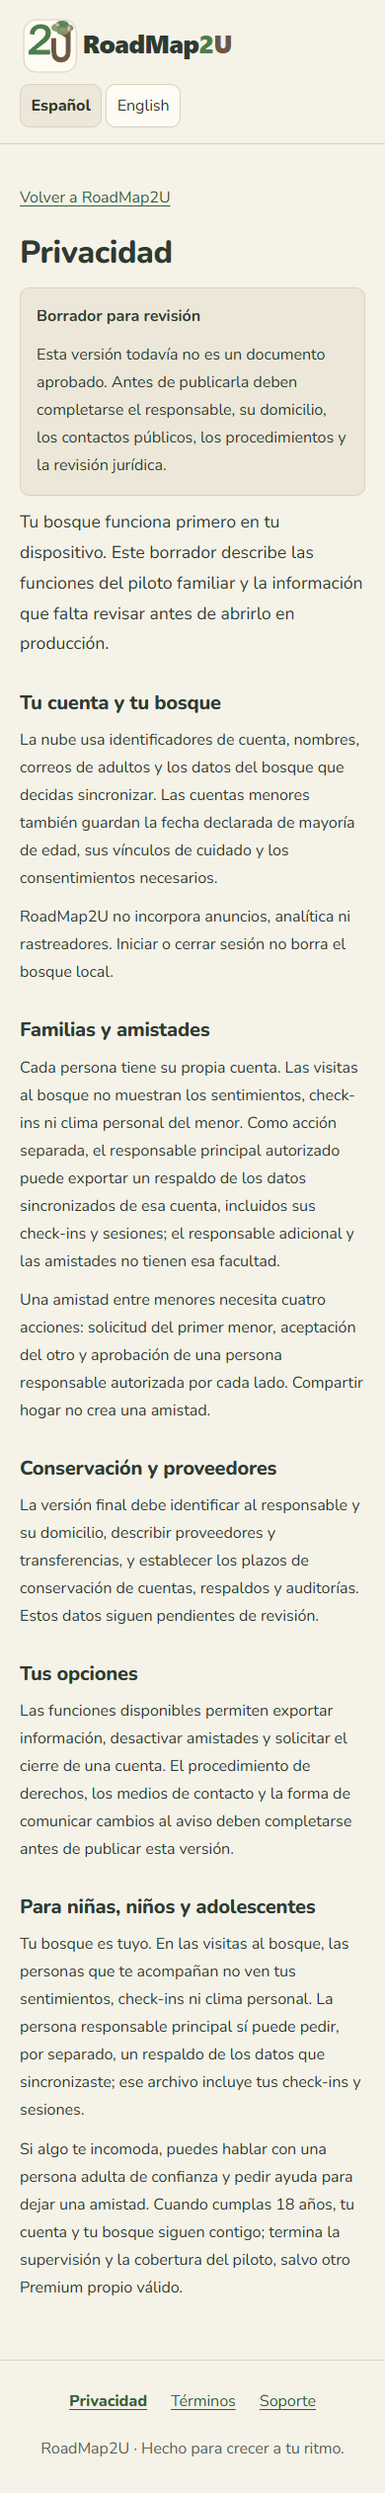
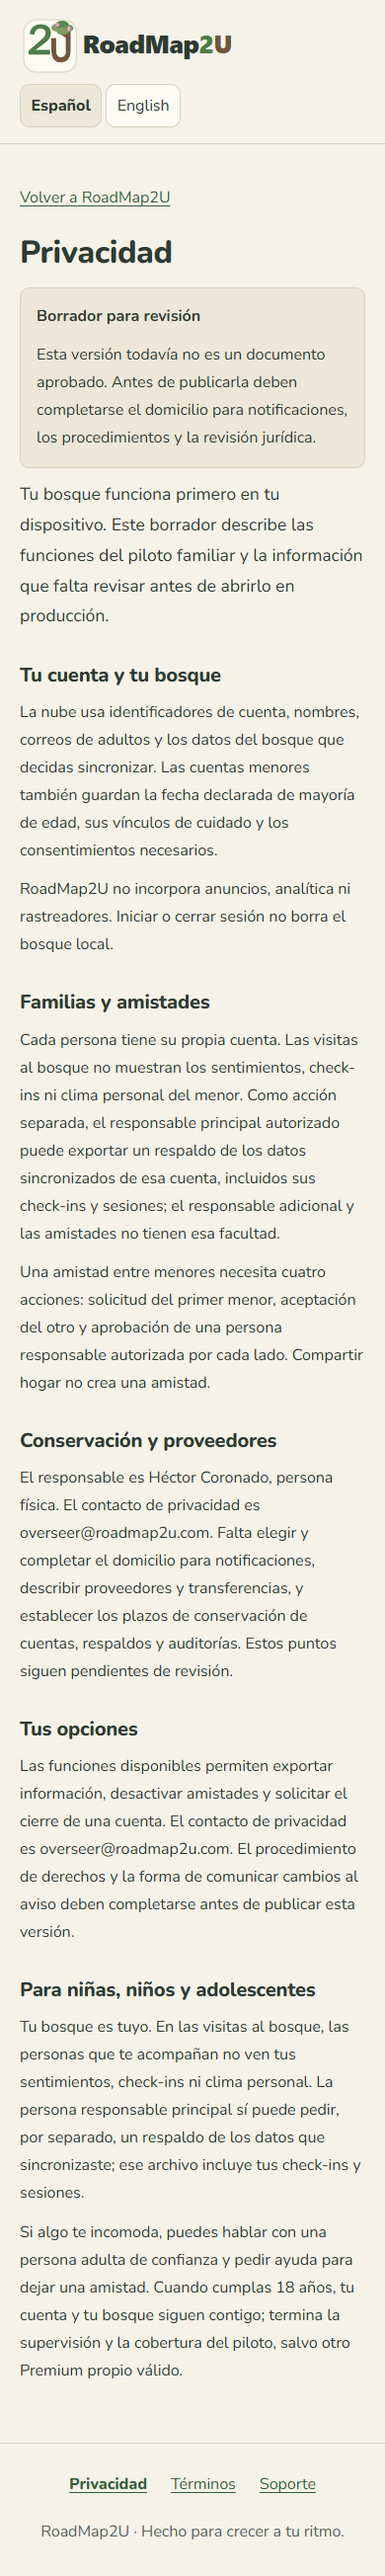
docs(privacy): add confirmed contacts and support review procedure

diff --git a/src/app/core/i18n/es.ts b/src/app/core/i18n/es.ts
@@ -154,7 +154,7 @@ export const ES = {
     navigation: 'Documentos y ayuda',
     review: {
       title: 'Borrador para revisión',
-      body: 'Esta versión todavía no es un documento aprobado. Antes de publicarla deben completarse el responsable, su domicilio, los contactos públicos, los procedimientos y la revisión jurídica.',
+      body: 'Esta versión todavía no es un documento aprobado. Antes de publicarla deben completarse el domicilio para notificaciones, los procedimientos y la revisión jurídica.',
     },
     privacy: {
       title: 'Privacidad',
@@ -178,13 +178,13 @@ export const ES = {
         {
           title: 'Conservación y proveedores',
           paragraphs: [
-            'La versión final debe identificar al responsable y su domicilio, describir proveedores y transferencias, y establecer los plazos de conservación de cuentas, respaldos y auditorías. Estos datos siguen pendientes de revisión.',
+            'El responsable es Héctor Coronado, persona física. El contacto de privacidad es overseer@roadmap2u.com. Falta elegir y completar el domicilio para notificaciones, describir proveedores y transferencias, y establecer los plazos de conservación de cuentas, respaldos y auditorías. Estos puntos siguen pendientes de revisión.',
           ],
         },
         {
           title: 'Tus opciones',
           paragraphs: [
-            'Las funciones disponibles permiten exportar información, desactivar amistades y solicitar el cierre de una cuenta. El procedimiento de derechos, los medios de contacto y la forma de comunicar cambios al aviso deben completarse antes de publicar esta versión.',
+            'Las funciones disponibles permiten exportar información, desactivar amistades y solicitar el cierre de una cuenta. El contacto de privacidad es overseer@roadmap2u.com. El procedimiento de derechos y la forma de comunicar cambios al aviso deben completarse antes de publicar esta versión.',
           ],
         },
         {
@@ -223,7 +223,7 @@ export const ES = {
         {
           title: 'Información pendiente',
           paragraphs: [
-            'Antes de publicar deben completarse la identidad y contactos del responsable, las reglas de disponibilidad y suspensión, el procedimiento de reclamaciones y la ley y jurisdicción aplicables, con revisión jurídica.',
+            'Antes de publicar deben completarse las reglas de disponibilidad y suspensión, el procedimiento de reclamaciones y la ley y jurisdicción aplicables, con revisión jurídica.',
           ],
         },
       ],
@@ -231,7 +231,7 @@ export const ES = {
     support: {
       title: 'Soporte y cuidado',
       intro:
-        'Este borrador reúne las situaciones de ayuda del piloto. Los contactos públicos, horarios y procedimientos siguen pendientes de aprobación.',
+        'El contacto público de soporte y privacidad es overseer@roadmap2u.com. Este borrador reúne las situaciones de ayuda del piloto; los horarios y procedimientos siguen pendientes de aprobación.',
       sections: [
         {
           title: 'Acceso a tu cuenta',
@@ -1187,7 +1187,7 @@ export const ES = {
     guardiansTitle: 'Te cuidan',
     minorsTitle: 'Cuidas a',
     disclosure:
-      'Las personas responsables autorizadas pueden acompañar tu bosque dentro de sus permisos. La familia no crea amistades automáticamente. Tus sentimientos, tus check-ins y tu clima siguen siendo solo tuyos.',
+      'Las personas responsables autorizadas pueden acompañar tu bosque dentro de sus permisos. En las visitas no ven tus sentimientos, check-ins ni clima personal. La persona responsable principal puede pedir por separado un respaldo de tus datos sincronizados, incluidos check-ins y sesiones. La familia no crea amistades automáticamente.',
     emptyAdult: 'Aún no hay menores en este hogar.',
     kindCreated: 'a tu cuidado',
     kindInvited: 'vinculada',

diff --git a/src/app/core/i18n/en.ts b/src/app/core/i18n/en.ts
@@ -152,7 +152,7 @@ export const EN: Dict = {
     navigation: 'Documents and help',
     review: {
       title: 'Draft for review',
-      body: 'This version is not an approved document yet. The controller, their address, public contacts, procedures and legal review must be completed before publication.',
+      body: 'This version is not an approved document yet. The notice address, procedures and legal review must be completed before publication.',
     },
     privacy: {
       title: 'Privacy',
@@ -176,13 +176,13 @@ export const EN: Dict = {
         {
           title: 'Retention and providers',
           paragraphs: [
-            'The final version must identify the controller and their address, describe providers and transfers, and set retention periods for accounts, backups and audits. This information is still awaiting review.',
+            'The controller is Héctor Coronado, an individual. The privacy contact is overseer@roadmap2u.com. The notice address must still be chosen and completed, providers and transfers described, and retention periods set for accounts, backups and audits. These items are still awaiting review.',
           ],
         },
         {
           title: 'Your options',
           paragraphs: [
-            'Available features let you export information, disable friendships and request account closure. The rights procedure, contact channels and how notice changes will be communicated must be completed before this version is published.',
+            'Available features let you export information, disable friendships and request account closure. The privacy contact is overseer@roadmap2u.com. The rights procedure and how notice changes will be communicated must be completed before this version is published.',
           ],
         },
         {
@@ -221,7 +221,7 @@ export const EN: Dict = {
         {
           title: 'Pending information',
           paragraphs: [
-            'Before publication, the controller’s identity and contacts, availability and suspension rules, the complaints procedure and applicable law and jurisdiction must be completed with legal review.',
+            'Before publication, availability and suspension rules, the complaints procedure and applicable law and jurisdiction must be completed with legal review.',
           ],
         },
       ],
@@ -229,7 +229,7 @@ export const EN: Dict = {
     support: {
       title: 'Support and care',
       intro:
-        'This draft brings together situations where pilot participants may need help. Public contacts, hours and procedures are still awaiting approval.',
+        'The public support and privacy contact is overseer@roadmap2u.com. This draft brings together situations where pilot participants may need help; hours and procedures are still awaiting approval.',
       sections: [
         {
           title: 'Account access',
@@ -1181,7 +1181,7 @@ export const EN: Dict = {
     guardiansTitle: 'They care for you',
     minorsTitle: 'You care for',
     disclosure:
-      'Authorized responsible people can accompany your forest within their permissions. Family membership does not create friendships. Your feelings, your check-ins and your weather remain yours alone.',
+      'Authorized responsible people can accompany your forest within their permissions. They do not see your feelings, check-ins or personal weather during visits. Your primary responsible adult can separately request a backup of your synced data, including check-ins and sessions. Family membership does not create friendships.',
     emptyAdult: 'There are no minors in this household yet.',
     kindCreated: 'in your care',
     kindInvited: 'linked',

diff --git a/docs/legal-drafts/support-privacy-procedure.md b/docs/legal-drafts/support-privacy-procedure.md
@@ -1,0 +1,81 @@
+# Procedimiento de soporte y privacidad / Support and privacy procedure
+
+**Borrador ES/EN pendiente de aprobación. No autoriza la publicación ni la activación familiar PROD. / ES/EN draft awaiting approval. It does not authorize publication or PROD family activation.**
+
+Este documento complementa el [runbook operativo backend](https://github.com/Toydrum/roadmap2u-backend/blob/5a4bb3ba7a25f250c0485082669a1c5249b873e9/docs/runbooks/family-support-privacy.md) y el [anexo técnico](technical-privacy-annex.md). Describe una propuesta de atención manual; no afirma que exista un sistema de tickets o un canal seguro de recepción de documentos ya aprobado.
+
+## ES — responsables y canal
+
+Responsable indicado por el titular: **Héctor Coronado, persona física**. Correo público confirmado de soporte y privacidad: **overseer@roadmap2u.com**. El domicilio para notificaciones sigue pendiente; la dirección personal enviada por chat no forma parte de este documento.
+
+Antes de aprobar: designar a quien tramitará solicitudes de privacidad y a quien recibirá escalaciones, confirmar horarios y objetivos de respuesta, elegir almacenamiento privado de expedientes y su conservación, y verificar el medio seguro para acreditar identidad/representación y entregar información. La confirmación de SNS prueba la suscripción de alertas; no prueba que estos procedimientos se hayan ensayado.
+
+## ES — recepción, verificación y seguimiento
+
+1. Asignar un identificador de caso y conservar fecha de recepción, canal de respuesta, ambiente y categoría. No poner contenido del bosque ni datos íntimos en el asunto o título. Si la petición es urgente por riesgo para un menor, registrar y escalar según el protocolo aprobado.
+2. Acusar recibo, explicar la información mínima necesaria y el medio seguro aprobado para verificarla. Nunca pedir contraseñas, MFA, tokens o códigos de invitación. Un correo o captura de pantalla no acredita por sí solo titularidad o representación.
+3. Comprobar identidad y, cuando corresponda, representación; confirmar en el servidor el rol y alcance actuales. Una responsabilidad principal o adicional de la app es una autorización técnica y no sustituye esa comprobación jurídica. Separar datos propios, del menor y de terceros.
+4. Registrar la decisión y el motivo, ejecutar solo la acción autorizada y comprobar el resultado canónico. Cada intervención operativa conserva el ambiente correcto, permisos, revisión y auditoría previstos; un fallo o conflicto requiere releer el estado antes de otro intento.
+5. Responder por el canal verificado, guardar evidencia mínima del resultado y cerrar el caso solo después de comprobarlo. Registrar lo que siga pendiente, incluidas diferencias entre datos activos, puntos de recuperación y copias descargadas por otras personas.
+
+### ES — derechos de datos
+
+La propuesta recibe acceso, rectificación, cancelación y oposición, además de revocación o limitación. La solicitud identifica a la persona y su representación cuando aplique, un medio de respuesta y la petición. Referencia para revisión: decisión en 20 días hábiles; cumplimiento procedente en 15 posteriores; ampliación única justificada. La entrega electrónica disponible es gratuita. Validar aplicación y cómputo antes de aprobar el procedimiento. [Ley vigente, artículos 2, 27–34](https://www.diputados.gob.mx/LeyesBiblio/pdf/LFPDPPP.pdf).
+
+## ES — tratamiento de casos familiares
+
+| Caso | Ruta prevista y comprobación |
+| --- | --- |
+| Recuperación de una cuenta menor | Verificar autoridad e identidad antes de usar el flujo permitido al principal. No enviar credenciales mediante un ticket o correo ordinario. |
+| Invitación, vinculación o transferencia | Consultar la solicitud vigente y las aceptaciones. Mantener el flujo autorizado; no sustituir la aceptación del destinatario con una escritura manual. |
+| Amistad infantil disputada | Comprobar los cuatro consentimientos y el estado actual. Usar rechazo o revocación autorizados; no fabricar aprobación ni conceder acceso adulto-menor. |
+| Respaldo de un menor | El principal autorizado puede exportar datos sincronizados, incluidos check-ins y sesiones; visitas, adicional y amistades no tienen esa facultad. Verificar destinatario y autoridad vigentes y entregar por el medio seguro aprobado, sin adjuntar el bosque al expediente. |
+| Cierre de una cuenta menor | Confirmar la petición y autoridad, descargar y verificar el respaldo previsto antes de la eliminación irreversible, y seguir el estado de cierre hasta su resultado. Si el cliente solo comunica aceptación de la solicitud, no declararla completada. No prometer restauración. |
+| Conflicto entre responsables o acceso comprometido | Conservar evidencia mínima y escalar. Toda contención requiere un medio existente y autorizado; no se supone una API nueva de congelación, ni se cambia la fecha de mayoría o responsabilidad para resolver un conflicto. |
+| Mayoría de edad o fin de piloto | Comprobar estado efectivo: se conservan cuenta y bosque; la mayoría termina supervisión y cobertura piloto. La revocación de cobertura no borra por sí sola la cuenta ni relaciones. Revisar otras fuentes de Premium antes de explicar el acceso. |
+
+## ES — incidentes, conservación y ensayo
+
+Ante un incidente, registrar alcance conocido, hora, ambiente, identificadores mínimos, contención autorizada y responsable de seguimiento. La decisión sobre comunicaciones y plazos se valida con el procedimiento jurídico aprobado. No enviar mensajes a terceros ni cambiar flags como parte de preparar este borrador.
+
+La política de expedientes, auditorías, respaldos y documentos de identidad sigue pendiente. Los logs configurados a 30 días y PITR de 35 días no son plazos universales de borrado. El [anexo técnico](technical-privacy-annex.md) identifica los límites observados, incluida auditoría sin TTL automático. Registrar cualquier obligación de conservación y su resolución; no prometer purgar información con una herramienta inexistente.
+
+Ensayar en DEV/TEST con datos sintéticos: caso incompleto, identidad no acreditada, rol adicional que solicita respaldo, conflicto de revisión, cierre asíncrono y entrega al titular verificado. Conservar resultados sanitizados. Los smokes familiares ya ejecutados no prueban por sí solos el proceso manual de soporte. La aprobación exige responsable designado, canal validado, decisiones pendientes resueltas y firma de los textos ES/EN; ningún ensayo habilita PROD automáticamente.
+
+## EN — roles and channel
+
+Controller named by the owner: **Héctor Coronado, an individual**. Confirmed public support and privacy email: **overseer@roadmap2u.com**. The notice address remains undecided; the personal address supplied in chat is excluded from this document.
+
+Before approval: designate the privacy request handler and escalation recipient, confirm hours and response targets, select private case storage and retention, and validate the secure method for proving identity/representation and delivering information. SNS confirmation verifies the alert subscription; it does not verify that these procedures have been rehearsed.
+
+## EN — intake, verification and follow-up
+
+1. Assign a case identifier and retain the receipt date, reply channel, environment and category. Keep forest contents and intimate data out of the subject or title. Record and escalate urgent child safety concerns using the approved protocol.
+2. Acknowledge receipt, explain the minimum information required and the approved secure verification method. Never ask for passwords, MFA, tokens or invitation codes. An email or screenshot alone does not establish account ownership or legal representation.
+3. Verify identity and representation where applicable; confirm current server role and scope. A primary or additional app role is technical authorization and does not replace legal verification. Separate the person's data, the minor's data and third-party data.
+4. Record the decision and reason, perform only the authorized action and verify canonical state. Operational intervention preserves the correct environment, permissions, revision and audit; an error or conflict requires rereading state before another attempt.
+5. Reply through the verified channel, keep minimal result evidence and close the case after verification. Record unresolved differences between live data, recovery points and copies downloaded by others.
+
+### EN — data rights
+
+The proposal handles access, rectification, cancellation and objection, plus withdrawal or restriction. Requests identify the person, representation where applicable, reply channel and request. Review reference: decision within 20 business days; eligible fulfillment within 15 thereafter; one justified extension. Available electronic delivery is free. Validate applicability and deadline calculation before approving the procedure. [Current law, Articles 2 and 27–34](https://www.diputados.gob.mx/LeyesBiblio/pdf/LFPDPPP.pdf).
+
+## EN — family case handling
+
+| Case | Proposed path and verification |
+| --- | --- |
+| Minor account recovery | Verify identity and authority before using the primary adult's permitted flow. Do not send credentials through a ticket or ordinary email. |
+| Invitation, linking or transfer | Read the current request and acceptances. Preserve the authorized flow; manual writes do not replace recipient acceptance. |
+| Disputed child friendship | Check all four consents and current state. Use authorized decline or revocation; do not fabricate approval or grant adult-minor friendship access. |
+| Minor backup | The authorized primary can export synced data, including check-ins and sessions; visits, additional adults and friends lack that authority. Verify current recipient and authority and use the approved secure delivery method without attaching the forest to the case record. |
+| Minor account closure | Confirm request and authority, download and verify the required backup before irreversible deletion, and follow closure to its result. A client acknowledging the request does not prove completion. Do not promise recovery. |
+| Responsibility dispute or compromised access | Preserve minimal evidence and escalate. Containment uses existing authorized means; no new freeze API is presumed, and adulthood dates or responsibility are not changed to resolve a dispute. |
+| Adulthood or pilot end | Verify effective state: account and forest remain; adulthood ends supervision and pilot coverage. Coverage revocation does not itself delete accounts or relationships. Check other Premium sources before explaining access. |
+
+## EN — incidents, retention and rehearsal
+
+For an incident, record known scope, time, environment, minimal identifiers, authorized containment and follow-up owner. Communications and deadlines require the approved legal procedure. Preparing this draft does not authorize messages to third parties or flag changes.
+
+Case, audit, backup and identity-document retention policies remain pending. The configured 30-day logs and 35-day PITR do not establish universal deletion deadlines. The [technical annex](technical-privacy-annex.md) records observed limits, including audit without automatic TTL. Record retention obligations and their resolution; do not promise deletion using a tool that does not exist.
+
+Rehearse in DEV/TEST with synthetic data: incomplete request, unverified identity, an additional adult requesting a backup, revision conflict, asynchronous closure and delivery to a verified person. Keep sanitized results. Completed family smokes alone do not prove the manual support process. Approval requires designated personnel, validated channel, resolved decisions and signed ES/EN texts; rehearsals never automatically enable PROD.

diff --git a/docs/legal-drafts/family-pilot-es.md b/docs/legal-drafts/family-pilot-es.md
@@ -1,10 +1,10 @@
 # Borrador ES — piloto familiar por invitación
 
-**Estado: revisión pendiente. No publicar ni habilitar PROD con este borrador.** Completar `{{RESPONSABLE_LEGAL}}`, `{{DOMICILIO_COMPLETO}}`, `{{CONTACTO_PRIVACIDAD}}`, `{{CONTACTO_SOPORTE}}`, `{{FECHA_VIGENCIA}}`, `{{PLAZOS_CONSERVACION}}` y `{{ENCARGADOS_Y_TRANSFERENCIAS}}`; obtener revisión jurídica y aprobación del responsable.
+**Estado: revisión pendiente. No publicar ni habilitar PROD con este borrador.** El responsable confirmó su nombre, Héctor Coronado, persona física, y `overseer@roadmap2u.com` como contacto público de privacidad y soporte. Completar `{{DOMICILIO_COMPLETO}}`, `{{FECHA_VIGENCIA}}`, `{{PLAZOS_CONSERVACION}}` y `{{ENCARGADOS_Y_TRANSFERENCIAS}}`; obtener revisión jurídica y aprobación del responsable. La elección del domicilio público sigue pendiente; no se incluye aquí la dirección personal enviada por chat.
 
 ## Aviso de privacidad integral — borrador
 
-**Responsable.** `{{RESPONSABLE_LEGAL}}`, con domicilio para recibir notificaciones en `{{DOMICILIO_COMPLETO}}` y contacto de privacidad `{{CONTACTO_PRIVACIDAD}}`.
+**Responsable.** Héctor Coronado, persona física, con domicilio para recibir notificaciones en `{{DOMICILIO_COMPLETO}}` y contacto de privacidad `overseer@roadmap2u.com`.
 
 **Datos y finalidades.** RoadMap2U trata identificadores de cuenta, nombre de usuario, correo de adultos, fecha declarada de mayoría de edad de menores, vínculos de cuidado, consentimientos, solicitudes de amistad, contenido que la persona decida guardar en su bosque y datos técnicos necesarios para autenticación, seguridad y operación. Especificar antes de publicar si alguna categoría constituye dato sensible y el mecanismo de consentimiento que corresponda. Usamos los datos para operar cuentas y bosques, permitir supervisión limitada, gestionar invitaciones y cuatro consentimientos para amistades entre menores, dar soporte, prevenir abuso y cumplir obligaciones aplicables. Las finalidades opcionales, si se incorporan, deberán presentarse separadas y permitir negativa.
 
@@ -14,7 +14,7 @@
 
 **Encargados y transferencias.** Completar `{{ENCARGADOS_Y_TRANSFERENCIAS}}` con proveedores, ubicación, finalidades y base de transferencia aplicables; distinguir encargados del tratamiento de transferencias a terceros. No suponer aceptación de transferencias que requieran consentimiento.
 
-**Derechos y opciones.** Para acceso, rectificación, cancelación, oposición, revocación de consentimiento o limitación del uso/divulgación, escribir a `{{CONTACTO_PRIVACIDAD}}`. Completar procedimiento, identificación de titular o representante, plazos y recursos aplicables. La app permite desactivar amistades y solicitar respaldo o eliminación de la cuenta en los flujos disponibles. Los cambios al aviso se comunicarán por `{{MEDIO_DE_CAMBIOS}}`.
+**Derechos y opciones.** Para acceso, rectificación, cancelación, oposición, revocación de consentimiento o limitación del uso/divulgación, escribir a `overseer@roadmap2u.com`. Completar procedimiento, identificación de titular o representante, plazos y recursos aplicables. La app permite desactivar amistades y solicitar respaldo o eliminación de la cuenta en los flujos disponibles. Los cambios al aviso se comunicarán por `{{MEDIO_DE_CAMBIOS}}`.
 
 **Fecha de vigencia.** `{{FECHA_VIGENCIA}}`.
 
@@ -28,13 +28,13 @@ El operador puede revocar la cobertura del piloto. La revocación impide nuevas 
 
 ## Soporte y privacidad — borrador de procedimiento
 
-Contacto de soporte: `{{CONTACTO_SOPORTE}}`. Contacto de privacidad: `{{CONTACTO_PRIVACIDAD}}`. Para recuperar una cuenta menor, transferir cuidado, impugnar un vínculo o reportar una amistad no consentida, verificar identidad y autoridad antes de actuar. Registrar el caso sin copiar contenido íntimo innecesario. Priorizar los reportes que afecten a menores; completar horarios, objetivos de respuesta y escalamiento en `{{RUNBOOK_SOPORTE}}`. Las solicitudes de datos y borrado seguirán `{{RUNBOOK_PRIVACIDAD}}`, con comprobación de cuenta, representante y estado de cierre. No prometer restauración de datos borrados.
+Contacto de soporte: `overseer@roadmap2u.com`. Contacto de privacidad: `overseer@roadmap2u.com`. El [procedimiento ES/EN de soporte y privacidad](support-privacy-procedure.md) detalla recepción, comprobación de identidad/representación, roles, respaldos, cierre e incidentes. Sigue pendiente de aprobar horarios, objetivos de respuesta, responsables de atención/escalamiento, almacenamiento y conservación de expedientes y canal seguro. Registrar el caso sin copiar contenido íntimo innecesario. Priorizar los reportes que afecten a menores; no prometer restauración de datos borrados. El borrador del procedimiento no autoriza intervención ni publicación.
 
 ## Explicación para niñas, niños y adolescentes — borrador
 
 Tu bosque es tuyo. En las visitas al bosque, las personas que te acompañan no ven tus sentimientos, check-ins ni clima personal. La persona responsable principal sí puede pedir, por separado, un respaldo de los datos que sincronizaste; ese archivo incluye tus check-ins y sesiones. Puedes tener amistades con otros menores: tú debes pedir o aceptar, y una persona adulta autorizada de cada lado debe aprobar. Nadie se vuelve tu amistad solo por compartir hogar.
 
-Si algo te incomoda, habla con una persona adulta de confianza o usa `{{CONTACTO_SOPORTE}}`. Puedes pedir ayuda para dejar una amistad. Cuando cumplas 18 años, tu cuenta y tu bosque siguen contigo; termina la supervisión familiar y la cobertura especial del piloto.
+Si algo te incomoda, habla con una persona adulta de confianza o escribe a `overseer@roadmap2u.com`. Puedes pedir ayuda para dejar una amistad. Cuando cumplas 18 años, tu cuenta y tu bosque siguen contigo; termina la supervisión familiar y la cobertura especial del piloto.
 
 ## Fuentes para revisión jurídica
 

diff --git a/docs/legal-drafts/family-pilot-en.md b/docs/legal-drafts/family-pilot-en.md
@@ -1,10 +1,10 @@
 # EN draft — invitation-only family pilot
 
-**Status: pending review. Do not publish or enable PROD using this draft.** Complete `{{LEGAL_CONTROLLER}}`, `{{FULL_NOTICE_ADDRESS}}`, `{{PRIVACY_CONTACT}}`, `{{SUPPORT_CONTACT}}`, `{{EFFECTIVE_DATE}}`, `{{RETENTION_SCHEDULE}}`, and `{{PROCESSORS_AND_TRANSFERS}}`; obtain legal review and controller approval.
+**Status: pending review. Do not publish or enable PROD using this draft.** The controller confirmed their name, Héctor Coronado, an individual, and `overseer@roadmap2u.com` as the public privacy and support contact. Complete `{{FULL_NOTICE_ADDRESS}}`, `{{EFFECTIVE_DATE}}`, `{{RETENTION_SCHEDULE}}`, and `{{PROCESSORS_AND_TRANSFERS}}`; obtain legal review and controller approval. The public notice address has not been chosen; the personal address supplied in chat is not included here.
 
 ## Full privacy notice — draft
 
-**Controller.** `{{LEGAL_CONTROLLER}}`, with notice address `{{FULL_NOTICE_ADDRESS}}` and privacy contact `{{PRIVACY_CONTACT}}`.
+**Controller.** Héctor Coronado, an individual, with notice address `{{FULL_NOTICE_ADDRESS}}` and privacy contact `overseer@roadmap2u.com`.
 
 **Data and purposes.** RoadMap2U processes account identifiers, usernames, adult email addresses, minors’ declared date of adulthood, care relationships, consent records, friendship requests, content a person chooses to save in their forest, and technical data needed for authentication, security, and operation. Before publication, identify any sensitive data categories and the required consent mechanism. We use this data to operate accounts and forests, support limited supervision, manage invitations and the four consents for friendships between minors, provide support, prevent abuse, and meet applicable obligations. Any optional purposes must be shown separately with a way to decline them.
 
@@ -14,7 +14,7 @@
 
 **Processors and transfers.** Complete `{{PROCESSORS_AND_TRANSFERS}}` with providers, locations, purposes, and applicable transfer basis; distinguish processors from transfers to third parties. Do not assume consent for transfers that require it.
 
-**Rights and choices.** For access, rectification, cancellation, objection, consent withdrawal, or limiting use/disclosure, contact `{{PRIVACY_CONTACT}}`. Complete the procedure, identity or representative verification, deadlines, and applicable remedies. The app offers friendship controls and available backup and account deletion flows. Changes to this notice will be communicated through `{{CHANGE_NOTICE_CHANNEL}}`.
+**Rights and choices.** For access, rectification, cancellation, objection, consent withdrawal, or limiting use/disclosure, contact `overseer@roadmap2u.com`. Complete the procedure, identity or representative verification, deadlines, and applicable remedies. The app offers friendship controls and available backup and account deletion flows. Changes to this notice will be communicated through `{{CHANGE_NOTICE_CHANNEL}}`.
 
 **Effective date.** `{{EFFECTIVE_DATE}}`.
 
@@ -28,13 +28,13 @@ The operator may revoke pilot coverage. Revocation stops new covered family capa
 
 ## Support and privacy procedure — draft
 
-Support: `{{SUPPORT_CONTACT}}`. Privacy: `{{PRIVACY_CONTACT}}`. For minor account recovery, care transfers, disputed relationships, or an unconsented friendship, verify identity and authority before acting. Record the case without unnecessary intimate content. Prioritize reports involving minors; complete hours, response targets, and escalation in `{{SUPPORT_RUNBOOK}}`. Data and deletion requests follow `{{PRIVACY_RUNBOOK}}`, including account, representative, and closure checks. Do not promise restoration of deleted data.
+Support: `overseer@roadmap2u.com`. Privacy: `overseer@roadmap2u.com`. The [ES/EN support and privacy procedure](support-privacy-procedure.md) describes intake, identity/representation checks, roles, backups, closure and incidents. Hours, response targets, case handling and escalation personnel, case storage/retention and the secure channel still require approval. Keep unnecessary intimate contents out of the case record. Prioritize reports involving minors and do not promise restoration of deleted data. The procedure draft does not authorize intervention or publication.
 
 ## Explanation for children and teens — draft
 
 Your forest belongs to you. People who accompany you do not see your feelings, check-ins or personal weather during forest visits. Your primary responsible adult can separately request a backup of the data you synced; that file includes your check-ins and sessions. You can be friends with other minors: you must ask or accept, and an authorized adult on each side must approve. Sharing a household never makes someone your friend automatically.
 
-If something feels wrong, speak with an adult you trust or use `{{SUPPORT_CONTACT}}`. You can ask for help ending a friendship. When you turn 18, your account and forest stay with you; family supervision and special pilot coverage end.
+If something feels wrong, speak with an adult you trust or email `overseer@roadmap2u.com`. You can ask for help ending a friendship. When you turn 18, your account and forest stay with you; family supervision and special pilot coverage end.
 
 ## Sources for legal review
 

diff --git a/docs/legal-drafts/technical-privacy-annex.md b/docs/legal-drafts/technical-privacy-annex.md
@@ -15,7 +15,7 @@ Observación: 6 de octubre de 2026, PROD. Backend de aplicación `5a4bb3ba7a25f2
 | Auditoría | Tabla de auditoría DynamoDB separada | Acciones, actor, sujeto, fecha y detalles operativos; no es el archivo de respaldo del bosque. |
 | Cierre asíncrono | Amazon SQS, Lambda y reconciliación | Mensajes de trabajo e identificadores necesarios para procesar el cierre. |
 | Entrega web | Amazon S3 y distribución global Amazon CloudFront | Artefactos estáticos de la app. CloudFront tiene logging desactivado en la configuración observada. |
-| Operación | Amazon CloudWatch y Amazon SNS | Logs/métricas de operación y alertas privadas; el destinatario de alarmas no es un contacto público de privacidad. |
+| Operación | Amazon CloudWatch y Amazon SNS | Logs/métricas de operación y alertas privadas. El contacto público de privacidad requiere designación del responsable; no se deriva de la suscripción. |
 
 La marca de proveedor técnico observada es **AWS**. La entidad contractual, condiciones de tratamiento, ubicación/reglas de transferencias y base aplicable deben confirmarse con el contrato y la revisión jurídica. La región configurada de servicios regionales no demuestra que toda operación o entrega global esté limitada a esa región.
 
@@ -52,7 +52,7 @@ Quedan fuera de esta observación los contratos del proveedor, la existencia o p
 | Audit | Separate DynamoDB audit table | Actions, actor, subject, timestamp and operational details; not the forest backup file. |
 | Asynchronous closure | Amazon SQS, Lambda and reconciliation | Work messages and identifiers needed to process closure. |
 | Web delivery | Amazon S3 and global Amazon CloudFront distribution | Static app artifacts. CloudFront logging is disabled in the observed configuration. |
-| Operations | Amazon CloudWatch and Amazon SNS | Operational logs/metrics and private alerts; the alarm recipient is not a public privacy contact. |
+| Operations | Amazon CloudWatch and Amazon SNS | Operational logs/metrics and private alerts. The controller must designate the public privacy contact separately; an alert subscription does not establish that role. |
 
 The observed technical provider brand is **AWS**. The contracting entity, processing terms, transfer locations/rules and applicable basis require contract verification and legal review. The configured region for regional services does not establish that all operations or global delivery are confined to that region.
 
